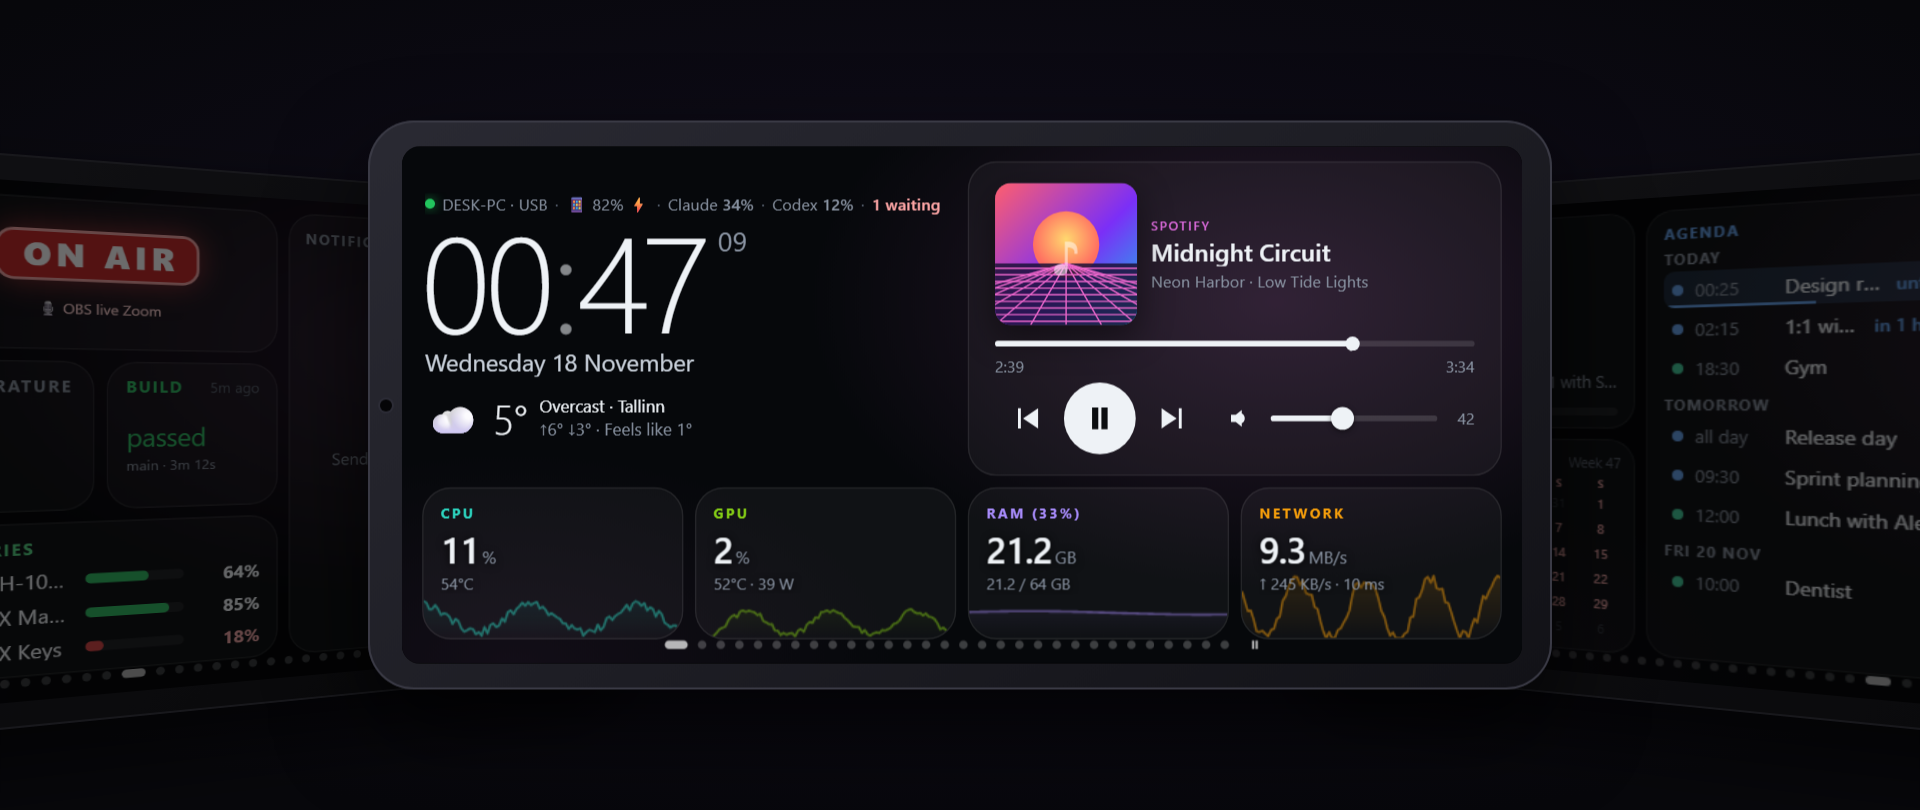
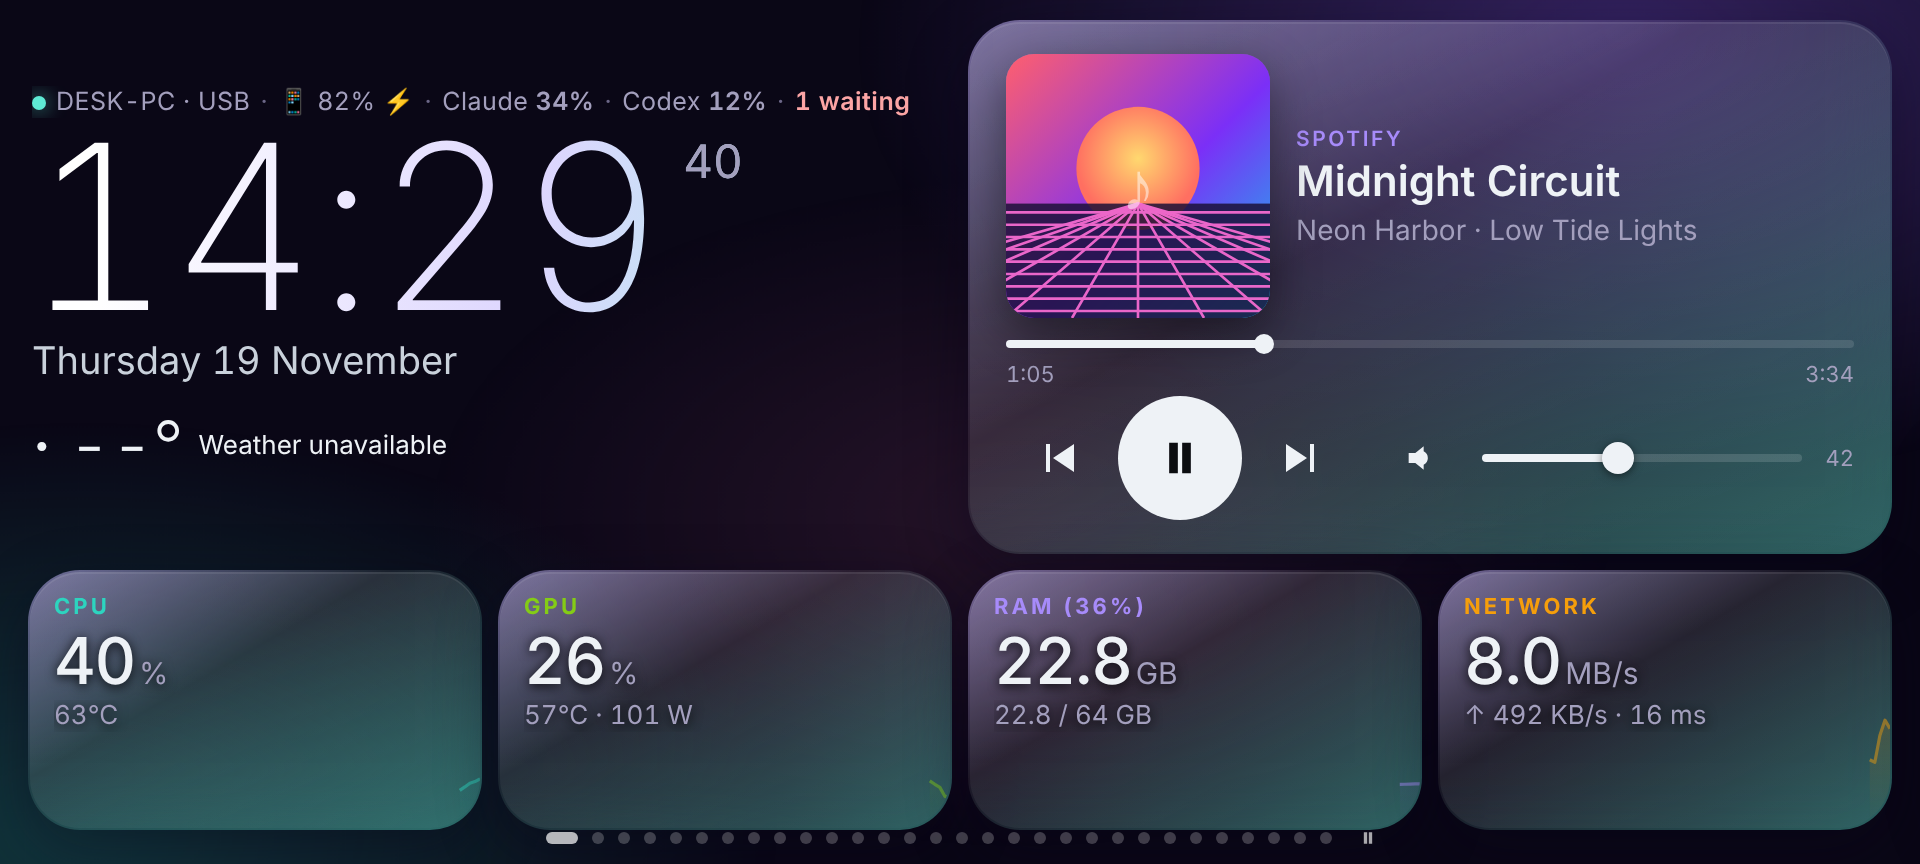
Default weather to Delhi and world clocks to Delhi/Dubai/London; new hero image (#9)
Claude-Session: https://claude.ai/code/session_012tBQBqvmL2Vr2PrZSEBnYy

diff --git a/agent/DeskDeck.Agent/settings.html b/agent/DeskDeck.Agent/settings.html
@@ -407,7 +407,7 @@ button, select, input, textarea { border-radius: 12px; }
         <h3 data-i18n="s.weather.title">Weather</h3>
         <div class="field">
           <label data-i18n="s.weather.searchCity">Search for a city</label>
-          <div class="row"><input type="text" id="citySearch" data-i18n-placeholder="s.weather.searchPlaceholder" placeholder="e.g. Tallinn, Berlin…" style="flex:1"><button class="btn" id="cityBtn" data-i18n="s.weather.searchBtn">Search</button></div>
+          <div class="row"><input type="text" id="citySearch" data-i18n-placeholder="s.weather.searchPlaceholder" placeholder="e.g. Delhi, Berlin…" style="flex:1"><button class="btn" id="cityBtn" data-i18n="s.weather.searchBtn">Search</button></div>
           <div class="results" id="cityResults" hidden></div>
         </div>
         <div class="grid2">

diff --git a/tools/pages/demo.js b/tools/pages/demo.js
@@ -57,7 +57,7 @@
         { id: 'music', label: 'Music', levels: [], actions: [], output: null, input: null, defaults: {} }],
         spotifyToken: null, spotifyDevice: null, mixerExecutable: null, mixerLibrary: null, spotifyClientId: null, spotifyRefreshToken: null },
       deviceSerial: null, adbPath: null,
-      weather: { city: 'Tallinn', lat: 59.437, lon: 24.745 },
+      weather: { city: 'Delhi', lat: 28.6139, lon: 77.209 },
       night: { enabled: false, start: '00:30', end: '07:30', brightness: 0.02 },
       display: { appearance: null, showSeconds: true, hour12: false, idleReturnSec: 0, vibrate: true, volumeKeys: true, orientation: 'landscape', theme: 'default', accent: '#2dd4bf',
         pixelShift: false, idleDimMin: 0,

diff --git a/android/app/src/main/assets/www/widgets/basic.js b/android/app/src/main/assets/www/widgets/basic.js
@@ -778,7 +778,7 @@ W.button = {
 W.worldclock = {
   needs: ['tick'],
   create(box, { o }) {
-    const zones = (Array.isArray(o.zones) && o.zones.length ? o.zones : ['Tallinn=Europe/Tallinn', 'Istanbul=Europe/Istanbul', 'London=Europe/London', 'New York=America/New_York', 'Tokyo=Asia/Tokyo'])
+    const zones = (Array.isArray(o.zones) && o.zones.length ? o.zones : ['Delhi=Asia/Kolkata', 'Dubai=Asia/Dubai', 'London=Europe/London', 'New York=America/New_York', 'Tokyo=Asia/Tokyo'])
       .map((z) => { const i = z.indexOf('='); return i > 0 ? [z.slice(0, i).trim(), z.slice(i + 1).trim()] : [z.split('/').pop().replace(/_/g, ' '), z.trim()]; });
     const items = zones.map(([name, tz]) => {
       let fmt = null;

diff --git a/android/app/src/main/assets/www/i18n.js b/android/app/src/main/assets/www/i18n.js
@@ -216,7 +216,7 @@
       's.general.lead': 'Weather, night mode, display behaviour and the phone connection.',
       's.weather.title': 'Weather',
       's.weather.searchCity': 'Search for a city',
-      's.weather.searchPlaceholder': 'e.g. Tallinn, Berlin…',
+      's.weather.searchPlaceholder': 'e.g. Delhi, Mumbai…',
       's.weather.searchBtn': 'Search',
       's.weather.displayName': 'Display name',
       's.weather.lat': 'Latitude',

diff --git a/android/app/src/main/assets/www/main.js b/android/app/src/main/assets/www/main.js
@@ -52,7 +52,7 @@ export const FALLBACK_PAGES = [{
 }];
 
 export const DEFAULT_CFG = {
-  weather: { city: 'Tallinn', lat: 59.437, lon: 24.745 },
+  weather: { city: 'Delhi', lat: 28.6139, lon: 77.209 },
   night: { enabled: true, start: '00:30', end: '07:30', brightness: 0.02 },
   display: { showSeconds: true, idleReturnSec: 90, vibrate: true, volumeKeys: true },
   pages: FALLBACK_PAGES,

diff --git a/agent/DeskDeck.Agent/Config.cs b/agent/DeskDeck.Agent/Config.cs
@@ -86,9 +86,9 @@ public sealed class AgentConfig
 
 public sealed class WeatherConfig
 {
-    public string City { get; set; } = "Tallinn";
-    public double Lat { get; set; } = 59.437;
-    public double Lon { get; set; } = 24.745;
+    public string City { get; set; } = "Delhi";
+    public double Lat { get; set; } = 28.6139;
+    public double Lon { get; set; } = 77.209;
 }
 
 public sealed class PingConfig

diff --git a/PRIVACY.md b/PRIVACY.md
@@ -42,7 +42,7 @@ identifies your GitHub account to GitHub.
 |---|---|---|---|
 | Update check | `api.github.com` (release info), `github.com` (downloads) | The repository name; with `gh` signed in and only when GitHub turns away an anonymous request, your GitHub CLI token, to `api.github.com` only | **Settings › General › Updates › Install new releases automatically** turns off installing. The check every 6 hours stays; it sends nothing about you |
 | Network latency (ping metric, "ping high" rule) | `1.1.1.1` (Cloudflare DNS) by default, an ICMP echo every 5 seconds | An empty ping packet | From 0.9.6: empty **Settings › General › Ping**, or enter another host. 0.9.5 and earlier: not switchable; block ICMP to `1.1.1.1` in your firewall |
-| Weather (phone) | `api.open-meteo.com`, every 15 minutes | The coordinates of the city you chose (Tallinn by default) | From 0.9.6: asked only while a page has a widget that shows the weather (weather, forecast, sun & moon, a clock with its weather line, or a Custom HTML widget, which gets the weather too); remove those, or turn off the clock's weather line. 0.9.5 and earlier: asked while the panel runs; choose a city you are comfortable sharing in **Settings › General › Weather** |
+| Weather (phone) | `api.open-meteo.com`, every 15 minutes | The coordinates of the city you chose (Delhi by default) | From 0.9.6: asked only while a page has a widget that shows the weather (weather, forecast, sun & moon, a clock with its weather line, or a Custom HTML widget, which gets the weather too); remove those, or turn off the clock's weather line. 0.9.5 and earlier: asked while the panel runs; choose a city you are comfortable sharing in **Settings › General › Weather** |
 | Air quality widget (phone) | `air-quality-api.open-meteo.com`, while the widget is on a page | The same coordinates | Remove the widget |
 | City search (settings page) | `geocoding-api.open-meteo.com` | The city name you type, only when you search | Don't search |
 
